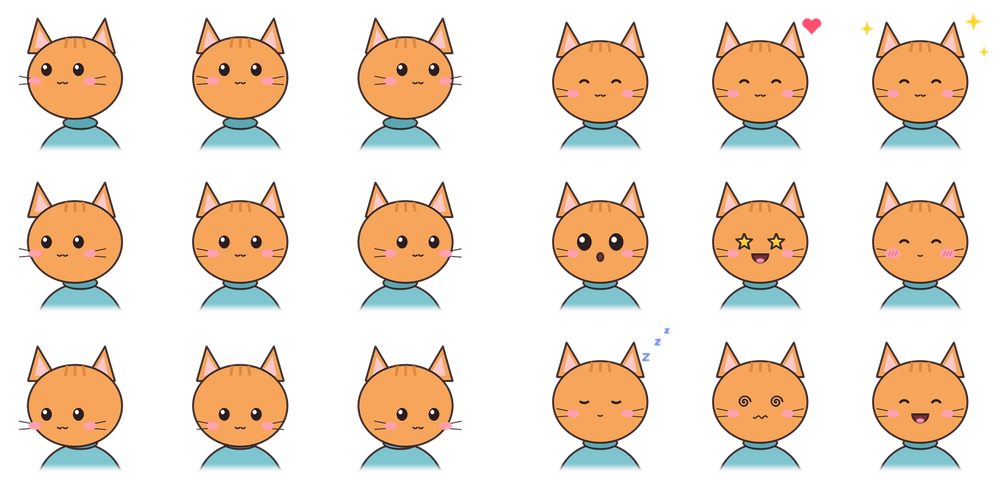
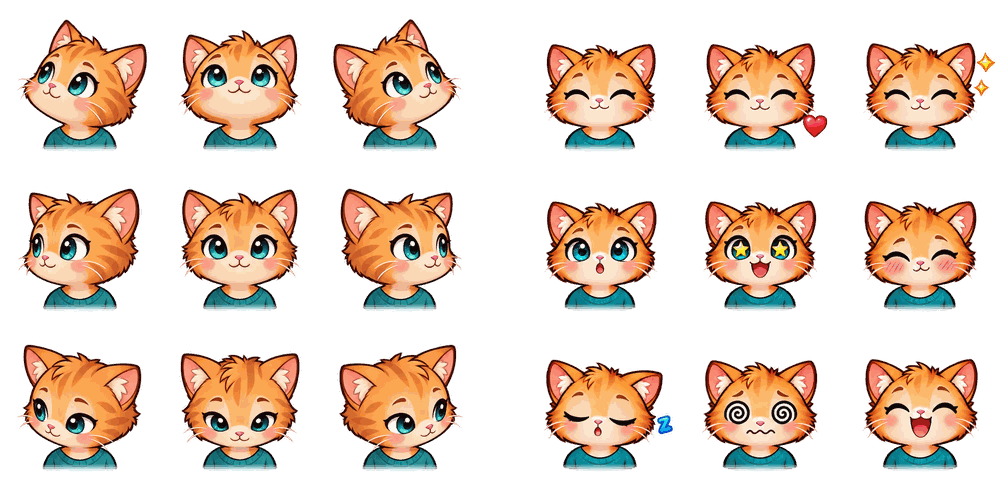
README: list all 67 characters and how to fetch their sheets
- Quick start step 2 is a copy-paste curl from GitHub Pages, or the playground's
  Download buttons.
- New Characters section with every ready-made name and where its sheets live.
- Show basePath and explicit directions/reactions for sheets kept elsewhere.
- Banner and sheet images redrawn from the new art.
- The site's install hint points at Try it and Download instead of the class photo.

diff --git a/site/i18n.ts b/site/i18n.ts
@@ -39,7 +39,7 @@ export const TEXT = {
     installTitle: 'Install',
     installSteps: [
       ['Add the package', ''],
-      ['Put two sheets in public/avatars', 'Download them from the class photo above, or draw your own.'],
+      ['Put two sheets in public/avatars', 'Press Try it on a character, then Download in the playground. Or draw your own.'],
       ['Render it', ''],
     ],
     propsTitle: 'Props',
@@ -109,7 +109,7 @@ export const TEXT = {
     installTitle: 'ติดตั้ง',
     installSteps: [
       ['เพิ่ม package', ''],
-      ['วางชีตสองไฟล์ไว้ที่ public/avatars', 'ดาวน์โหลดจากรูปหมู่ด้านบน หรือวาดตัวละครของคุณเอง'],
+      ['วางชีตสองไฟล์ไว้ที่ public/avatars', 'กดลองเล่นที่ตัวละคร แล้วกดดาวน์โหลดในส่วน Playground หรือวาดตัวละครของคุณเอง'],
       ['แสดงผล', ''],
     ],
     propsTitle: 'Props',

diff --git a/README.md b/README.md
@@ -1,6 +1,6 @@
 <div align="center">
 
-<img src=".github/assets/cast.png" width="560" alt="mochi, kuma, usagi, kaeru, pan and piyo — the six ready-made characters">
+<img src=".github/assets/cast.png" width="720" alt="mochi, kuma, usagi, kaeru, pan, piyo, human-afro and person-robot — eight of the 67 ready-made characters">
 
 # pretty-avatar
 
@@ -13,7 +13,7 @@ plus an agent skill, `/pretty-avatar`, that draws new characters for you.
 [![size](https://img.shields.io/badge/gzip-~3%20kB-6fb27a)](https://www.npmjs.com/package/pretty-avatar)
 [![license](https://img.shields.io/badge/license-MIT-e0a92e)](LICENSE)
 
-[**Live demo**](https://kimookpong.github.io/pretty-avatar/) · [Quick start](#quick-start) · [Props](#props) · [Draw your own](#draw-your-own) · [ภาษาไทย](README.th.md)
+[**Live demo**](https://kimookpong.github.io/pretty-avatar/) · [Quick start](#quick-start) · [Characters](#characters) · [Props](#props) · [Draw your own](#draw-your-own) · [ภาษาไทย](README.th.md)
 
 </div>
 
@@ -27,12 +27,16 @@ plus an agent skill, `/pretty-avatar`, that draws new characters for you.
 npm i pretty-avatar
 ```
 
-**2 —** grab a character's two sheets from the [demo page](https://kimookpong.github.io/pretty-avatar/#cast) and put them in `public/avatars/`
+**2 —** put a character's two sheets in `public/avatars/` (`static/` on SvelteKit)
 
+```bash
+mkdir -p public/avatars
+curl -fsSL -o public/avatars/mochi-directions.webp https://kimookpong.github.io/pretty-avatar/avatars/mochi-directions.webp
+curl -fsSL -o public/avatars/mochi-reactions.webp  https://kimookpong.github.io/pretty-avatar/avatars/mochi-reactions.webp
 ```
-public/avatars/mochi-directions.webp
-public/avatars/mochi-reactions.webp
-```
+
+Or pick one on the [demo page](https://kimookpong.github.io/pretty-avatar/#cast), press
+**Try it**, and use the **Download** buttons in the playground.
 
 **3 —** render it
 
@@ -47,11 +51,25 @@ export function Header() {
 That's it. It works in Vite, Next.js (App Router included — it ships `'use client'`), Remix,
 Astro islands and anything else that renders React 18+.
 
+## Characters
+
+67 ready-made characters. Swap `mochi` for any name below, in both the file names and `name="…"`.
+
+| | names |
+| --- | --- |
+| **originals** | `mochi` cat · `kuma` bear · `usagi` bunny · `kaeru` frog · `pan` panda · `piyo` chick |
+| **animals** | `animal-bear` `animal-cat` `animal-chick` `animal-cow` `animal-deer` `animal-dog` `animal-duck` `animal-elephant` `animal-fox` `animal-frog` `animal-giraffe` `animal-hamster` `animal-hedgehog` `animal-hippo` `animal-koala` `animal-lion` `animal-mouse` `animal-otter` `animal-owl` `animal-panda` `animal-penguin` `animal-pug` `animal-rabbit` `animal-raccoon` `animal-red-panda` `animal-seal` `animal-sheep` `animal-sloth` `animal-squirrel` `animal-tiger` |
+| **people** | `human-afro` `human-artist` `human-astronaut` `human-bald` `human-beanie` `human-bearded` `human-black-glasses` `human-blond` `human-bob` `human-builder` `human-bun` `human-cap` `human-chef` `human-curly-glasses` `human-doctor` `human-freckles` `human-grandfather` `human-grandmother` `human-headscarf` `human-hijab` `human-hoodie` `human-locs` `human-nurse` `human-pilot` `human-pixie` `human-ponytail` `human-silver-bob` `human-student` `human-turban` `human-wizard` |
+| **and** | `person-robot` |
+
+Every sheet is at `https://kimookpong.github.io/pretty-avatar/avatars/<name>-directions.webp`
+and `<name>-reactions.webp`, about 180 KB each.
+
 ## Two ways to get a character
 
 | | **Ready-made** | **Drawn for you** |
 | --- | --- | --- |
-| what | one of the six on the demo page | anything you describe, or you from a photo |
+| what | any of the 67 [above](#characters) | anything you describe, or you from a photo |
 | how | download two `.webp` files | ask your agent `/pretty-avatar a chibi shiba with a red scarf` |
 | needs | nothing | an agent, plus its image tool or an `OPENAI_API_KEY` |
 | time | seconds | a few minutes, retries included |
@@ -74,6 +92,12 @@ Astro islands and anything else that renders React 18+.
 
 Every prop is optional except the sheets: give `name`, or both `directions` and
 `reactions` (paths or imported images). TypeScript rejects anything in between.
+
+Sheets somewhere else? `basePath="/static/avatars"`, or point at them directly:
+
+```tsx
+<Pavatar directions="/img/me-directions.webp" reactions="/img/me-reactions.webp" />
+```
 
 ### What it does when poked
 
